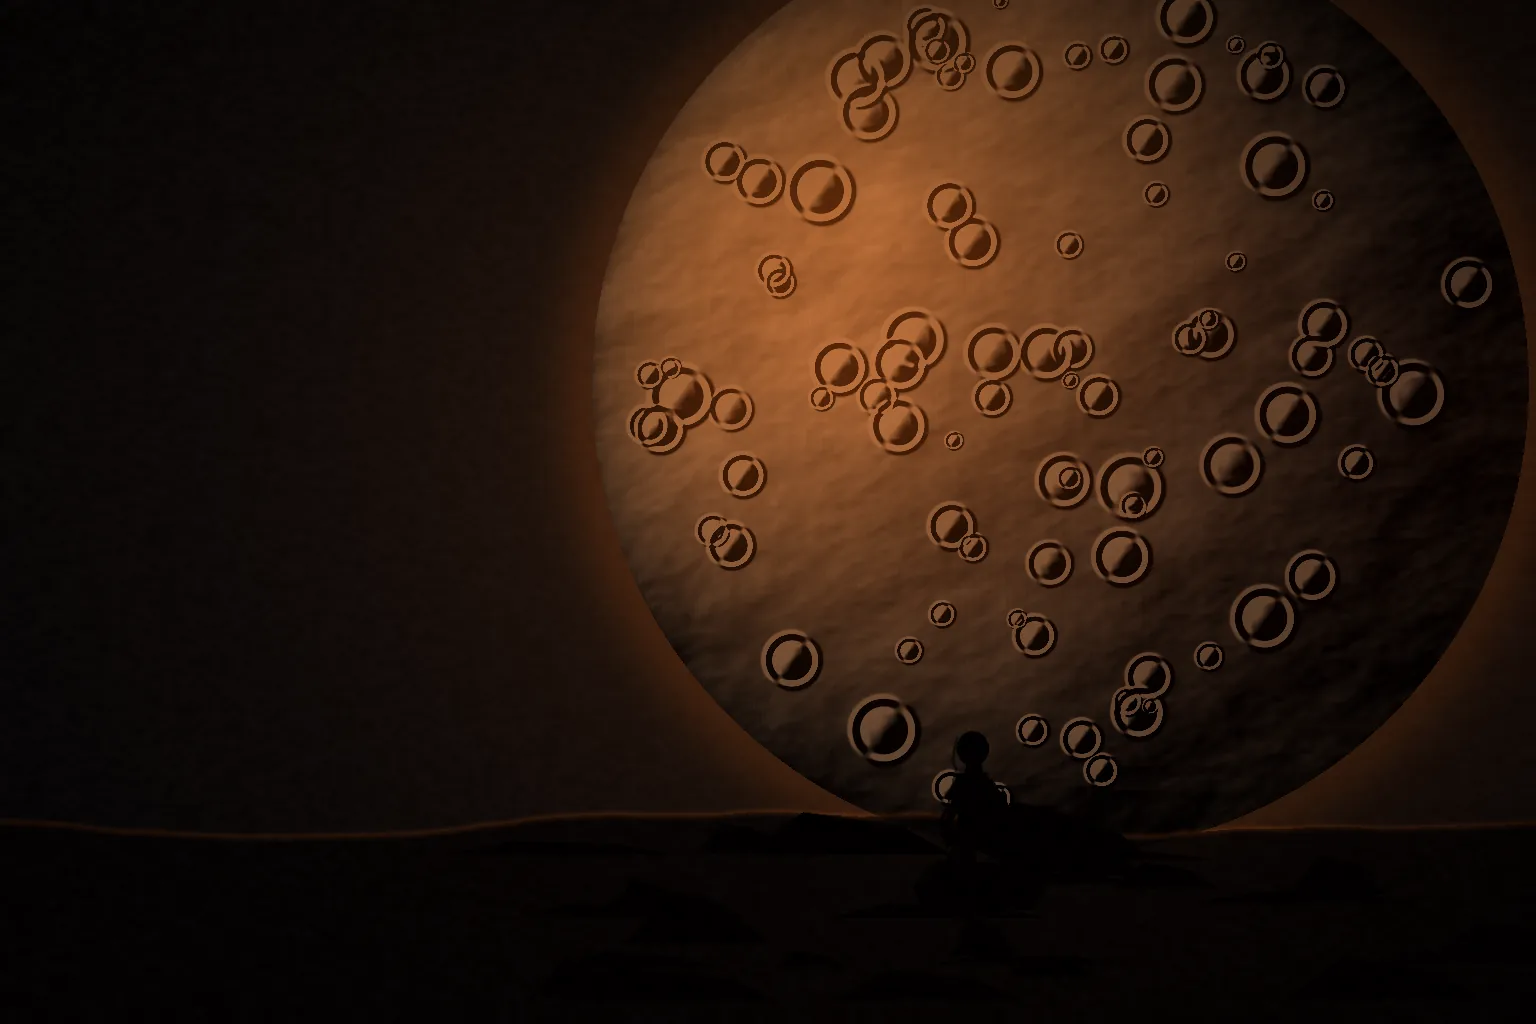
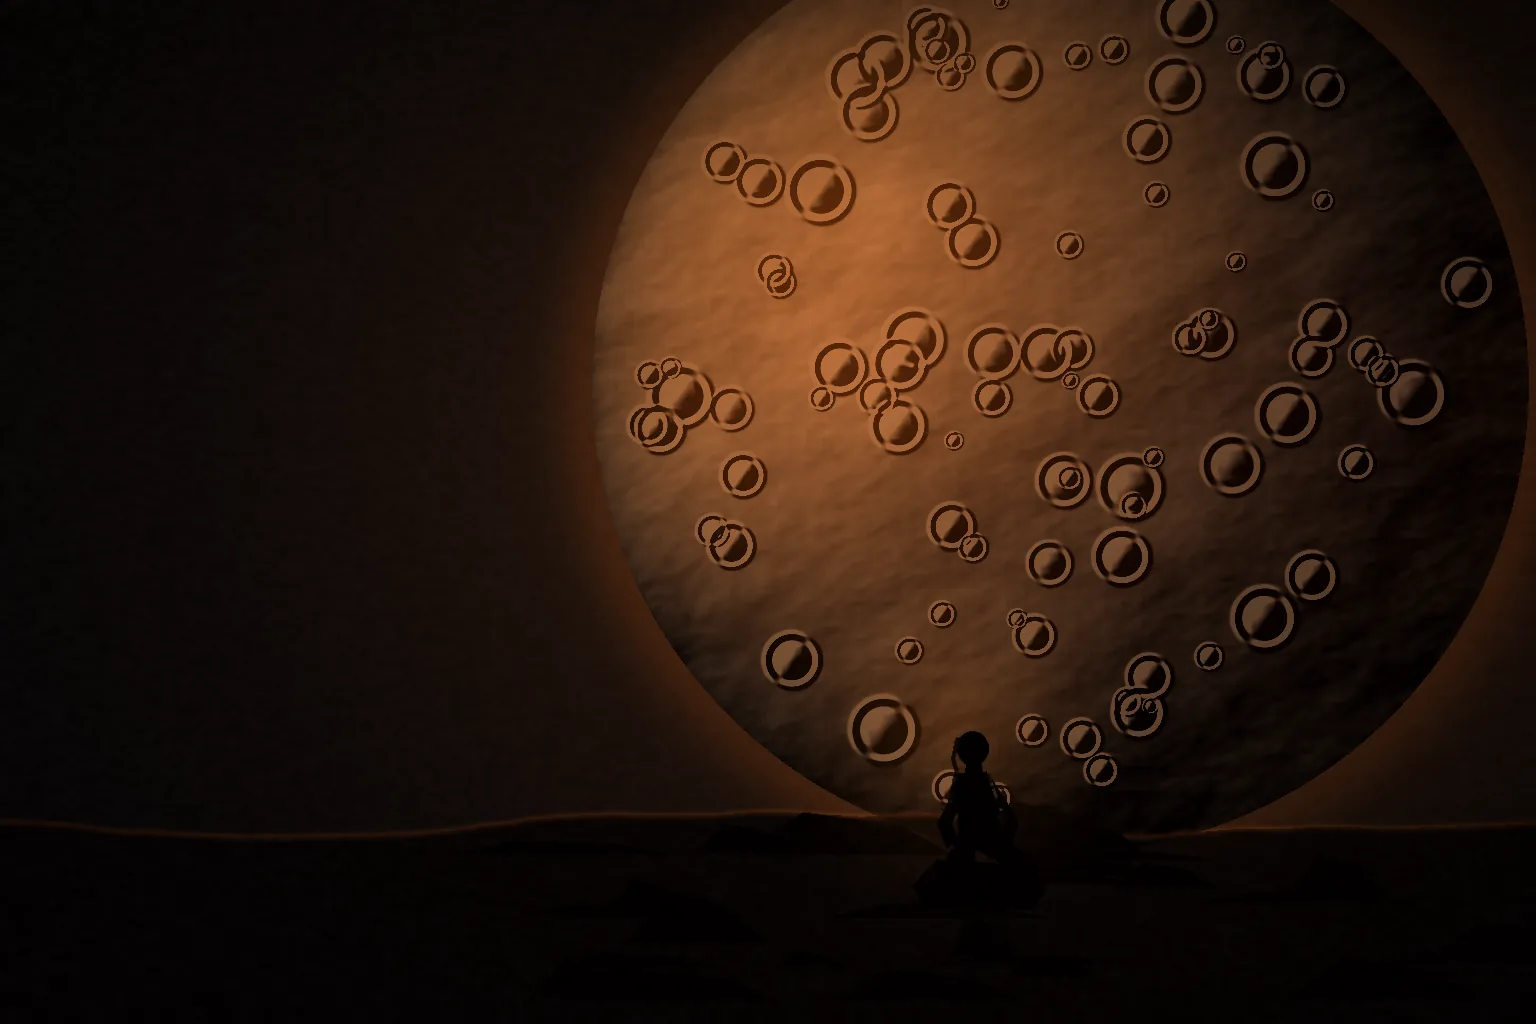
docs(design): add verification screenshots and hero polish

Changed region(s): [[0.5625, 0.625, 0.6875, 0.7812]]

diff --git a/scripts/generate_dace_assets.py b/scripts/generate_dace_assets.py
@@ -95,8 +95,8 @@ def draw_seated_figure(size: float = 1.0) -> Image.Image:
     """Small original silhouette of a seated observer, with a warm rim light."""
     canvas = Image.new("RGBA", (180, 220), (0, 0, 0, 0))
     d = ImageDraw.Draw(canvas)
-    silhouette = (9, 7, 6, 255)
-    rim = (148, 78, 24, 150)
+    silhouette = (13, 9, 7, 255)
+    rim = (255, 154, 58, 210)
 
     # Rock seat
     d.polygon([(28, 170), (52, 146), (126, 150), (154, 176), (142, 194), (38, 192)], fill=silhouette)
@@ -118,9 +118,10 @@ def draw_seated_figure(size: float = 1.0) -> Image.Image:
     d.polygon([(64, 136), (88, 134), (84, 170), (72, 176), (52, 164)], fill=silhouette)
 
     # Restrained amber rim on the illuminated edge
-    d.line([(70, 30), (66, 50), (70, 64)], fill=rim, width=3, joint="curve")
-    d.line([(68, 66), (62, 98), (57, 112)], fill=rim, width=3, joint="curve")
-    d.line([(52, 146), (38, 166)], fill=rim, width=2)
+    d.line([(70, 30), (66, 50), (70, 64)], fill=rim, width=4, joint="curve")
+    d.line([(68, 66), (62, 98), (57, 112)], fill=rim, width=4, joint="curve")
+    d.line([(100, 64), (110, 94), (118, 112)], fill=(196, 96, 28, 150), width=3, joint="curve")
+    d.line([(52, 146), (38, 166)], fill=rim, width=3)
     if size != 1.0:
         new = (max(1, int(canvas.width * size)), max(1, int(canvas.height * size)))
         canvas = canvas.resize(new, Image.Resampling.LANCZOS)
@@ -239,6 +240,12 @@ def make_hero() -> None:
         rd.line([(rx - rw * 0.4, ry - rh), (rx + rw * 0.5, ry - rh * 0.7)], fill=(92, 44, 12, 90), width=2)
     rock_array = np.asarray(rocks, dtype=np.float32) / 255.0
     arr = arr * (1 - rock_array[..., 3:4]) + rock_array[..., :3] * rock_array[..., 3:4]
+
+    # A restrained pool of amber light gives the observer a readable silhouette.
+    gx, gy = w * 0.62, h * 0.72
+    gd = np.sqrt((xx - gx) ** 2 + (yy - gy) ** 2) / (w * 0.15)
+    glow = np.clip(1.0 - gd, 0.0, 1.0)[..., None] ** 2
+    arr += glow * np.array([52.0, 26.0, 7.0], dtype=np.float32)
 
     # Solitary observer.
     figure = draw_seated_figure(1.05)

diff --git a/public/fonts/ATTRIBUTION.md b/public/fonts/ATTRIBUTION.md
@@ -13,3 +13,20 @@ Dace uses locally bundled open-source typefaces distributed under the SIL Open F
    - Classification: Geometric Interface Sans-Serif with humanist warmth
    - Usage: Primary workspace interface, navigation controls, search inputs, badges, and metadata
    - License: SIL Open Font License, Version 1.1
+
+3. **Space Grotesk**
+   - Designer: Florian Karsten
+   - Classification: Geometric sans-serif for interface and display typography
+   - Usage: Cinematic display headings, navigation, buttons, and record titles
+   - License: SIL Open Font License, Version 1.1
+   - Source: <https://github.com/floriankarsten/space-grotesk>
+
+4. **IBM Plex Mono**
+   - Designer: IBM
+   - Classification: Monospaced technical typeface
+   - Usage: Commands, shortcuts, timestamps, codes, and metadata
+   - License: SIL Open Font License, Version 1.1
+   - Source: <https://github.com/IBM/plex>
+
+Additional licence files are bundled with the self-hosted font copies in
+`src/assets/fonts/space-grotesk/OFL.txt` and `src/assets/fonts/ibm-plex-mono/OFL.txt`.
